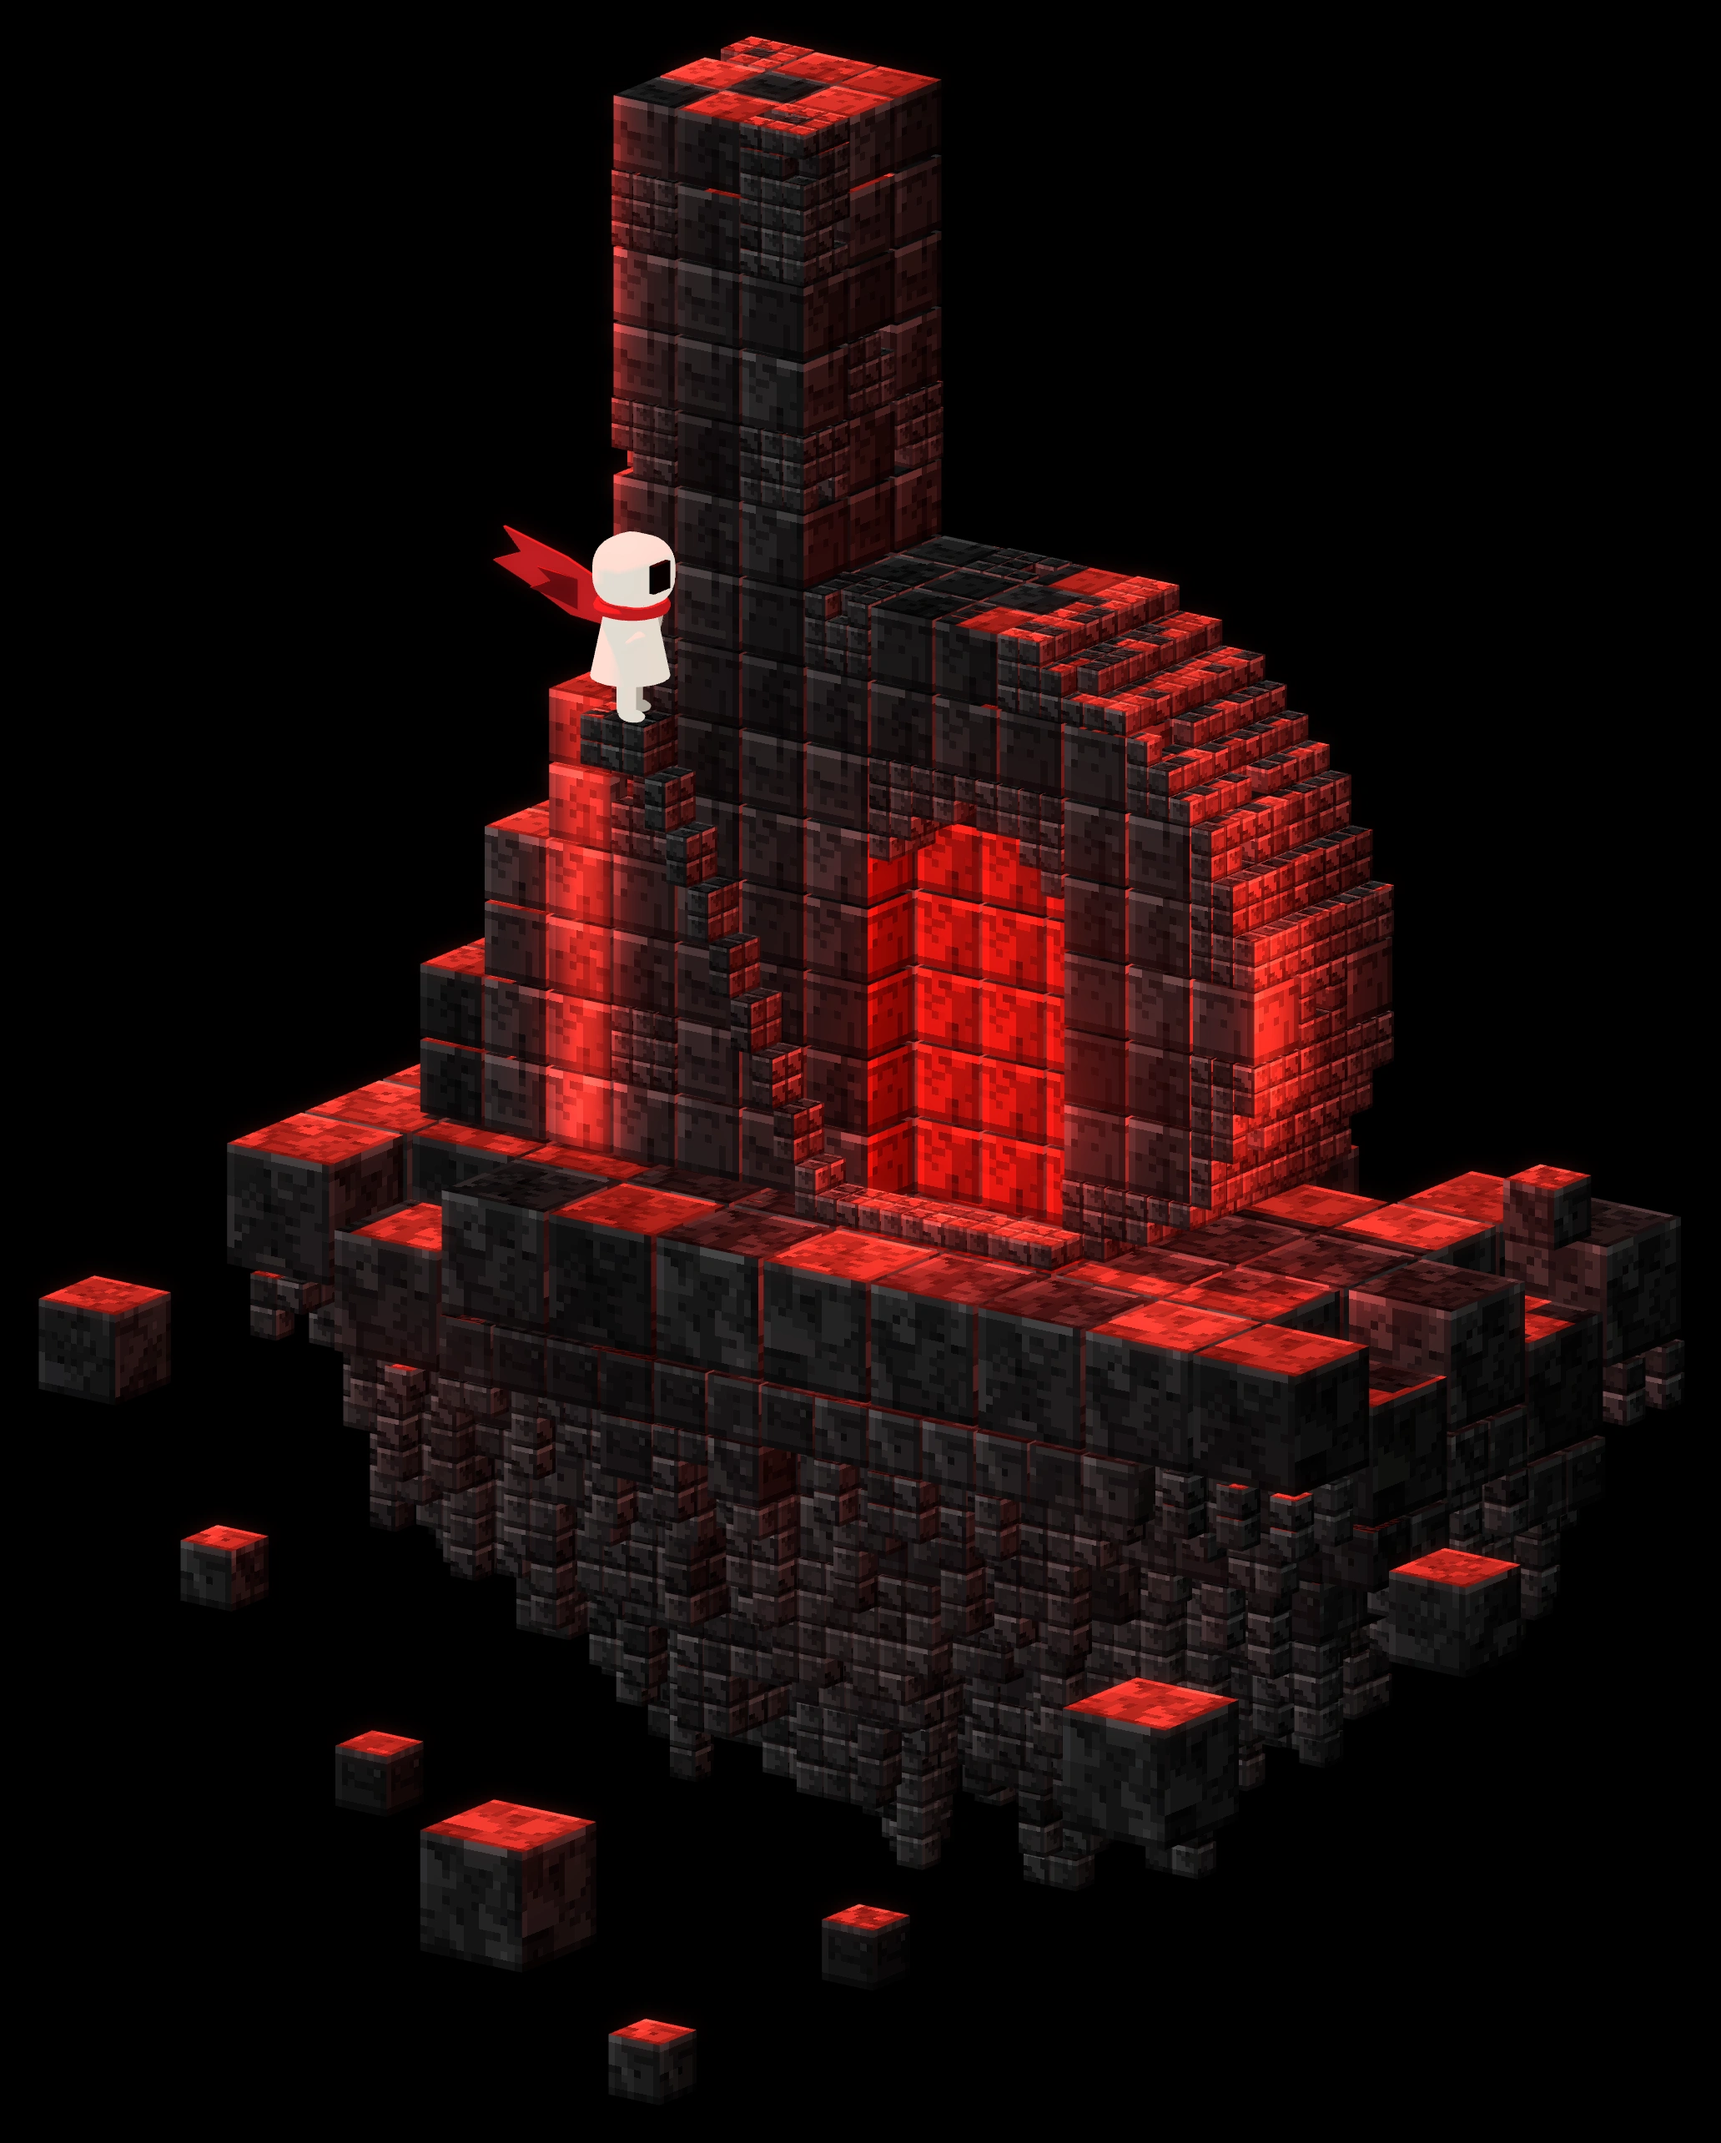
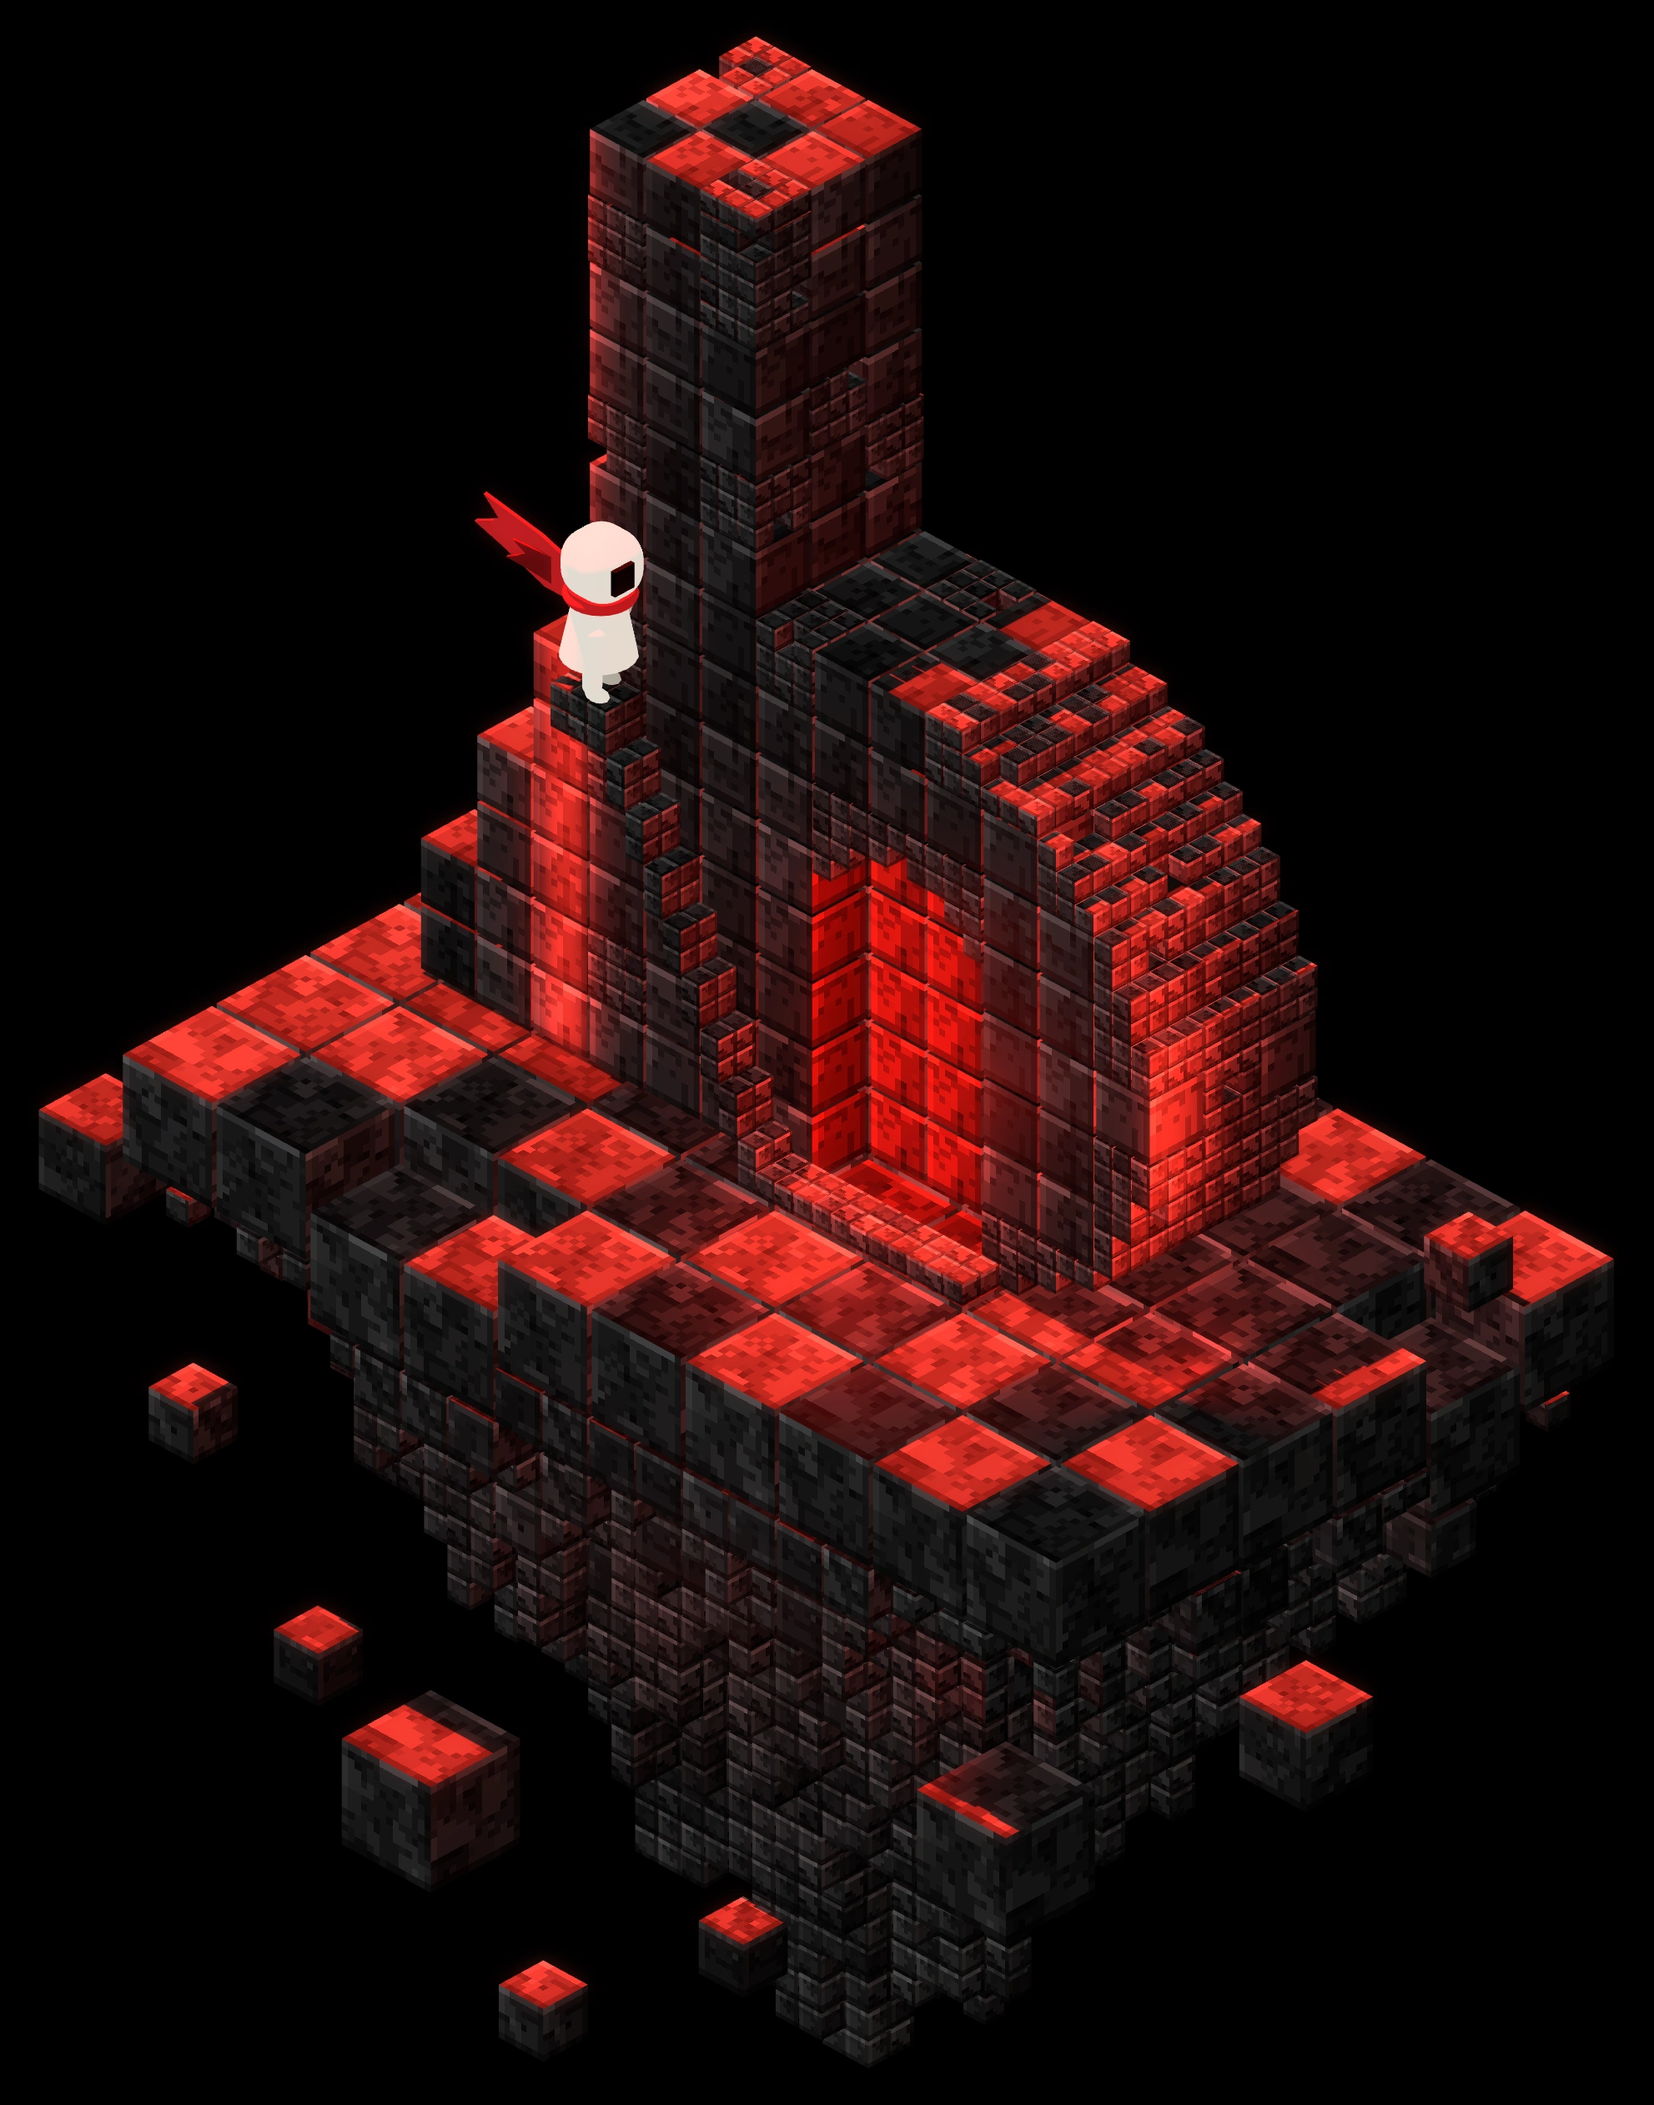
Sculpture: island reads as a diamond with a conical underside; near-isometric camera
- camera back to 45 deg azimuth / 33 deg elevation (the low front-leaning view made the island look flat)
- island footprint is a square diamond: 15-unit top cubes alternate red-lit and near-black,
  stepped 7.5 / 3.75-unit tiers form an inverted cone under it
- docs updated

Claude-Session: https://claude.ai/code/session_01QzWKhTYrrY3Jd26DSiS11Q

Changed region(s): [[0.0, 0.0, 0.9844, 0.9893], [0.1538, 0.742, 0.3999, 0.9893]]

diff --git a/tools/sculpture3d.js b/tools/sculpture3d.js
@@ -49,8 +49,8 @@ const STEM = { x0: 24, x1: 51, h: 126 };
 const BOWL = { x0: 42, x1: 114, h: 72, rTop: 42, rBot: 30 };
 const LANDING_Z = 54;
 const CELL = 15;                                   // foundation top cube; tiers below are CELL/2 and CELL/4
-const PLAT = { x0: -15, x1: 135, y0: -27, y1: 48 };   // cell boundaries line up with the letter (x) and the stairs' front edge (y = 33)
-const PLAT_CX = 60, PLAT_CY = 10.5, PLAT_AX = 75, PLAT_AY = 37.5;
+const PLAT = { x0: -15, x1: 135, y0: -27, y1: 63 };   // cell boundaries line up with the letter (x) and the stairs' front edge (y = 33)
+const PLAT_CX = 60, PLAT_CY = 18, PLAT_AX = 75, PLAT_AY = 45;
 const inCircle = (x, z, cx, cz, r) => (x - cx) ** 2 + (z - cz) ** 2 <= r * r;
 function inLetter(X, Z) {
   if (X >= STEM.x0 && X < STEM.x1 && Z >= 0 && Z < STEM.h) return true;
@@ -169,8 +169,8 @@ function emitLetter() {
  *       7.5- and 3.75-unit cubes step down along a smooth bowl profile ----- */
 function bowlDepth(x, y) {
   const u = (x - PLAT_CX) / PLAT_AX, v = (y - PLAT_CY) / PLAT_AY;
-  const r = Math.min(1, Math.pow(u ** 4 + v ** 4, 0.25));          // rounded-rectangle distance from the centre
-  return 17 + 52 * Math.pow(1 - r * r, 0.85);                         // rim ~17 deep, centre ~70: a bowl
+  const r = Math.min(1, Math.pow(u ** 4 + v ** 4, 0.25));          // rounded-square distance from the centre (0 centre, 1 rim)
+  return 15 + 108 * Math.pow(1 - r, 1.0);                            // rim ~15 deep, centre ~115: an inverted cone, stepped by the cube tiers
 }
 const tierFaces = (h) => {
   const f = baseFaces();
@@ -178,7 +178,7 @@ const tierFaces = (h) => {
   return f;
 };
 const shadeDepth = (Z) => 1 - 0.35 * Math.min(1, Math.max(0, -Z / 70));
-const darkCube = (a, b, c) => hash3(a, b, c, 302) < 0.34;                  // some cubes are near-black stone, so tops alternate red / black
+const darkCube = (a, b, c) => hash3(a, b, c, 302) < 0.4;                  // some cubes are near-black stone, so tops alternate red / black
 const tintOf = (a, b, c, Z) => (darkCube(a, b, c) ? 0.03 : 0.45 + 0.8 * hash3(a, b, c, 301)) * shadeDepth(Z);
 function emitPlatform() {
   const ci0 = Math.round(PLAT.x0 / CELL), ci1 = Math.round(PLAT.x1 / CELL) - 1;
@@ -190,8 +190,8 @@ function emitPlatform() {
       const border = ci === ci0 || ci === ci1 || cj === cj0 || cj === cj1;
       const flat = y > 0 && y < 33 && x > -10 && x < 125;                    // under the letter, the stairs and the doorstep
       let top = 0;
-      if (border && !flat) top = r < 0.2 ? -CELL / 2 : r > 0.8 ? CELL / 2 : 0; // a few rim cubes stand higher or lower
-      const jit = 0.86 + 0.28 * hash3(ci, cj, 1, 4);
+      if (border && !flat) top = r < 0.1 ? -CELL / 2 : r > 0.9 ? CELL / 2 : 0;  // a couple of rim cubes stand higher or lower
+      const jit = 0.94 + 0.12 * hash3(ci, cj, 1, 4);
       const D = bowlDepth(x, y) * jit;
       const n1 = 1 + Math.floor(Math.max(0, D - CELL) / 38);
       // tier 1: 15-cubes
@@ -199,15 +199,16 @@ function emitPlatform() {
         const Z = top - CELL / 2 - q * CELL;
         const f = tierFaces(ci * 31 + cj * 7 + q);
         if (q === 0 && x > DOOR.x0 && x < DOOR.x1 && y > 0 && y < 30) f[2] = 'd0';   // door floor glows
-        blocks.push({ X: x, Y: y, Z, s: CELL, f, t: tintOf(ci, cj, q, Z) });
+        const checkerDark = q === 0 && !flat && ((ci + cj) & 1) === (hash3(ci, cj, 5, 7) < 0.25 ? 1 : 0);   // top layer: mostly alternating red-lit / near-black cubes, with a few swapped
+        blocks.push({ X: x, Y: y, Z, s: CELL, f, t: checkerDark ? 0.04 : q === 0 && !flat ? 0.75 + 0.45 * hash3(ci, cj, q, 301) : tintOf(ci, cj, q, Z) });
       }
       const z1 = top - n1 * CELL;
       // tier 2: 7.5-cubes in a 2x2 pattern, depth read from the bowl profile at each sub-column
       const h2 = CELL / 2, q4 = CELL / 4;
       for (let a = 0; a < 2; a++) for (let b = 0; b < 2; b++) {
         const xs = x - q4 + a * h2, ys = y - q4 + b * h2, hh = ci * 977 + cj * 131 + a * 17 + b * 5;
-        const D2 = bowlDepth(xs, ys) * (0.72 + 0.5 * hash3(hh, 0, 0, 240)) - n1 * CELL;
-        const len2 = Math.max(0, Math.round(0.62 * D2 / h2));
+        const D2 = bowlDepth(xs, ys) * (0.9 + 0.2 * hash3(hh, 0, 0, 240)) - n1 * CELL;
+        const len2 = Math.max(0, Math.round(0.7 * D2 / h2));
         for (let q = 0; q < len2; q++) {
           const Z = z1 - h2 / 2 - q * h2;
           blocks.push({ X: xs, Y: ys, Z, s: h2, f: tierFaces(hh * 7 + q), t: tintOf(hh, q, 2, Z) });
@@ -216,8 +217,8 @@ function emitPlatform() {
         const z2 = z1 - len2 * h2;
         for (let c = 0; c < 2; c++) for (let d = 0; d < 2; d++) {
           const xt = xs - q4 / 2 + c * q4, yt = ys - q4 / 2 + d * q4, h3 = hh * 13 + c * 3 + d;
-          const D3 = bowlDepth(xt, yt) * (0.62 + 0.8 * hash3(h3, 0, 0, 241)) - n1 * CELL - len2 * h2;
-          const len3 = Math.min(5, Math.max(0, Math.round(1.0 * D3 / q4)));
+          const D3 = bowlDepth(xt, yt) * (0.8 + 0.4 * hash3(h3, 0, 0, 241)) - n1 * CELL - len2 * h2;
+          const len3 = Math.min(6, Math.max(0, Math.round(1.0 * D3 / q4)));
           for (let q = 0; q < len3; q++) {
             const Z = z2 - q4 / 2 - q * q4;
             blocks.push({ X: xt, Y: yt, Z, s: q4, f: tierFaces(h3 * 5 + q), t: tintOf(h3, q, 3, Z) });
@@ -447,9 +448,8 @@ const bbox = new THREE.Box3();
 blocks.forEach((b) => bbox.expandByPoint(new THREE.Vector3(b.X, b.Z, b.Y)));
 const centre = bbox.getCenter(new THREE.Vector3());
 const camera = new THREE.OrthographicCamera(-1, 1, 1, -1, 1, 2000);
-// The reference is a low, front-leaning view (not true isometric): about 17.5 deg elevation, 36 deg azimuth.
-// That makes the front face large and the tops thin slivers.
-const AZ = 36 * Math.PI / 180, EL = 17.5 * Math.PI / 180;
+// Near-isometric view (45 deg azimuth, 33 deg elevation): the island reads as a diamond with its corner toward the viewer.
+const AZ = 45 * Math.PI / 180, EL = 33 * Math.PI / 180;
 camera.position.copy(centre).add(new THREE.Vector3(Math.sin(AZ) * Math.cos(EL), Math.sin(EL), Math.cos(AZ) * Math.cos(EL)).multiplyScalar(700));
 camera.lookAt(centre);
 camera.updateMatrixWorld(true);

diff --git a/index.html b/index.html
@@ -46,9 +46,9 @@
       <figure class="hero__art">
         <img class="hero__sculpture"
           src="assets/sculpture.webp"
-          srcset="assets/sculpture-1000.webp 1000w, assets/sculpture.webp 2063w"
+          srcset="assets/sculpture-1000.webp 1000w, assets/sculpture.webp 1983w"
           sizes="(max-width: 900px) 100vw, 46vw"
-          width="2063" height="2569"
+          width="1983" height="2523"
           alt="A lowercase b built from small charcoal blocks, floating on a rocky island. A stairway climbs to a tiny ivory explorer in a red scarf, and a red doorway glows in the bowl."
           fetchpriority="high" decoding="async">
       </figure>

diff --git a/README.md b/README.md
@@ -16,6 +16,6 @@ Open `index.html` in a browser (no build step needed).
 
 - `css/styles.css` holds the layout, tokens (`:root`) and responsive rules. The primary action uses `#C4161B`, a touch deeper than the documented `#D51D22` (hover brings it back to `#D51D22`). Type is Inter Tight (SIL OFL), self-hosted in `assets/fonts/`.
 - `assets/sculpture.webp` (and a 1000px variant) is the voxel b sculpture, with its explorer, red doorway lighting and floating foundation.
-- The sculpture is generated, not hand-drawn: `tools/sculpture3d.js` builds it from large charcoal stone cubes in three.js (9-unit cubes for the letter, seen from the reference's low front-leaning camera, 3-unit blocks at curves, steps and the arch, 15 / 7.5 / 3.75-unit cubes for the bowl-shaped foundation) with chunky chipped-stone pixel textures. No block is painted red: the red comes from a strong red key light that makes tops and edges glow and casts shadows, red lights in the doorway, and a near-black fill. A red-only glow is added in a 2D pass. Re-render it with `cd tools && npm install && cd .. && node tools/build-sculpture.js` (set `CHROMIUM_PATH` to use an installed Chromium; WebGL runs on the software renderer). If the output size changes, update the `width`/`height` on the `<img>` in `index.html`.
+- The sculpture is generated, not hand-drawn: `tools/sculpture3d.js` builds it from large charcoal stone cubes in three.js (9-unit cubes for the letter, 3-unit blocks at curves, steps and the arch, 15 / 7.5 / 3.75-unit cubes for the bowl-shaped foundation) with chunky chipped-stone pixel textures. No block is painted red: the red comes from a strong red key light that makes tops and edges glow and casts shadows, red lights in the doorway, and a near-black fill. A red-only glow is added in a 2D pass. Re-render it with `cd tools && npm install && cd .. && node tools/build-sculpture.js` (set `CHROMIUM_PATH` to use an installed Chromium; WebGL runs on the software renderer). If the output size changes, update the `width`/`height` on the `<img>` in `index.html`.
 - The artwork is rendered on pure black and shown with `mix-blend-mode: screen`, so it blends into the page background.
 - Links to `games.html`, `studio.html` and `contact.html` are placeholders until those pages exist.

diff --git a/design/ITERATION.md b/design/ITERATION.md
@@ -37,5 +37,6 @@ Use [DESIGN.md](../DESIGN.md) as the current source of design decisions. Add rev
 | 2026-10-15 | Sculpture blocks are all charcoal stone; red comes from light, not red blocks. Larger cubes (9-unit letter, 12-unit foundation) with chunky chipped-stone textures. | Implemented, awaiting user review |
 | 2026-10-15 | Foundation remade as a bowl: regular grid of 15-unit rim cubes (some near-black so tops alternate red / black), 7.5 and 3.75-unit tiers stepping down a smooth bowl profile; chibi explorer; calmer glow. | Implemented, awaiting user review |
 | 2026-10-15 | b silhouette reworked (taller stem, rounder bowl, low front-leaning camera like the reference, steps flush with the wall, red edge light strips); primary button `#C4161B`; type switched to self-hosted Inter Tight. | Implemented, awaiting user review |
+| 2026-10-15 | Camera returned to a near-isometric view (45 deg / 33 deg) so the island reads as a diamond; island reshaped as a square diamond with an inverted-cone underside and alternating red-lit / near-black top cubes. Supersedes the low front-leaning camera. | Implemented, awaiting user review |
 
 For each later review, record the exact file, decision, and approval status. Do not mark proposals approved without a user decision.
